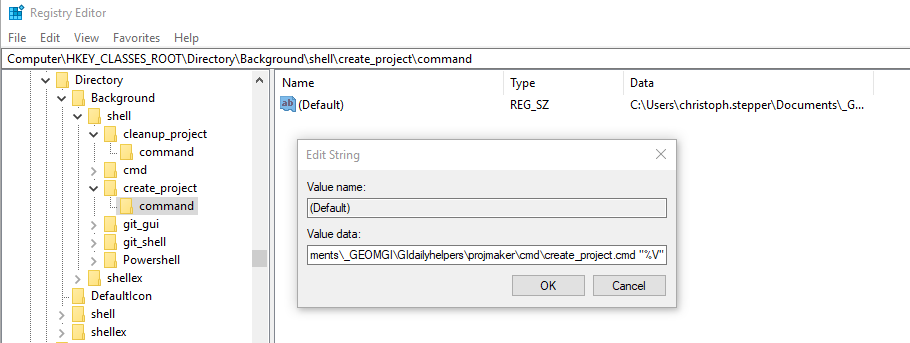
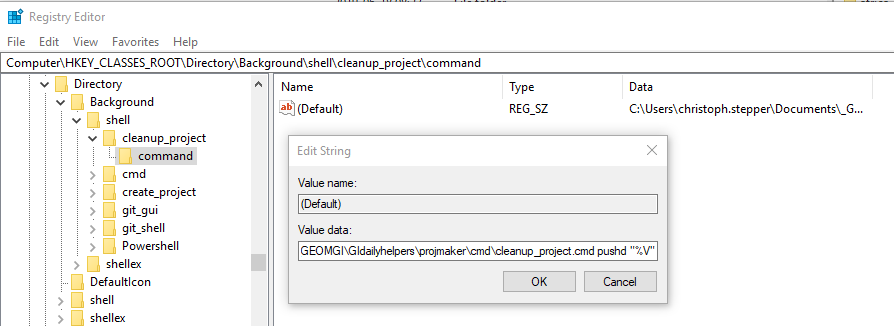
update reg files

Changed region(s): [[0.0, 0.0, 1.0, 1.0], [0.0302, 0.4908, 0.0604, 0.5215], [0.0302, 0.4294, 0.0604, 0.4601]]

diff --git a/NEWS.md b/NEWS.md
@@ -1,3 +1,9 @@
+## projmaker 0.1.3
+
+changes: 
+  - modified registry files (*.reg*) for adding the batch scripts to the
+    Right Click Context Menu - now it works for paths with spaces as well.
+
 ## projmaker 0.1.2
 
 changes: 
